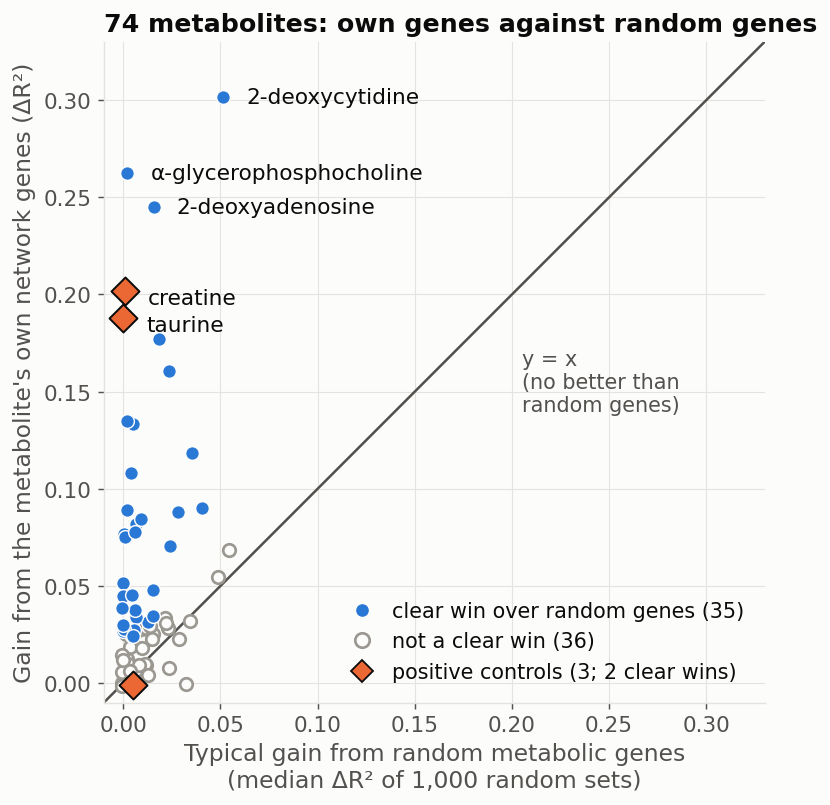
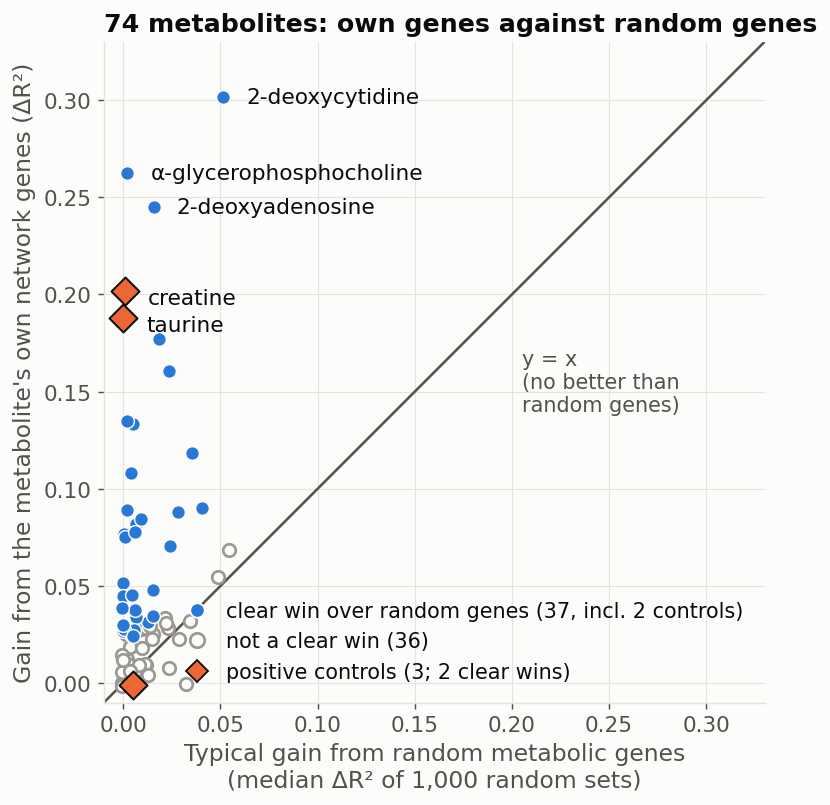
README: add "Why this question" with DOI links; pre-specified wording in templates; scatter legend
No result, analysis or number changed.

Changed region(s): [[0.2108, 0.7453, 0.9036, 0.8696], [0.753, 0.8075, 0.8735, 0.8385]]

diff --git a/scripts/check_docs.py b/scripts/check_docs.py
@@ -1,6 +1,6 @@
 """Documentation and repository checks.
 
-    python scripts/check_docs.py links     # every relative link/image in README.md and docs/ resolves; README has no absolute URLs
+    python scripts/check_docs.py links     # every relative link/image in README.md and docs/ resolves; README has no absolute URLs except doi.org links
     python scripts/check_docs.py paths     # no absolute personal paths, no file > 50 MB, large data/results excluded by .gitignore
     python scripts/check_docs.py wording   # author lines, 'pre-specified' wording, first person singular, image sizes
     python scripts/check_docs.py numbers   # every number quoted in README.md is recomputed from the result files
@@ -41,7 +41,7 @@ def check_links() -> list[str]:
             if t.startswith(("mailto:", "#")):
                 continue
             if t.startswith(("http://", "https://")):
-                if f == README:
+                if f == README and not t.startswith("https://doi.org/"):   # DOI links to the cited papers are the only external URLs allowed
                     errors.append(f"{f.relative_to(ROOT)}: absolute URL not allowed in README: {t}")
                 continue
             n += 1

diff --git a/src/phase3/figures.py b/src/phase3/figures.py
@@ -183,7 +183,7 @@ def fig_readme_scatter() -> None:
         ax.set_title("74 metabolites: own genes against random genes", loc="left", fontweight="bold")
         n_blue, n_open, n_pc = int((spec & ~pc).sum()), int((~spec & ~pc).sum()), int(pc.sum())
         n_pc_win = int((spec & pc).sum())
-        handles = [Line2D([], [], marker="o", color=BLUE, ls="", ms=8, markeredgecolor=SURFACE, label=f"clear win over random genes ({n_blue})"),
+        handles = [Line2D([], [], marker="o", color=BLUE, ls="", ms=8, markeredgecolor=SURFACE, label=f"clear win over random genes ({n_blue + n_pc_win}, incl. {n_pc_win} controls)"),
                    Line2D([], [], marker="o", mfc=SURFACE, mec=MUTED, mew=1.5, ls="", ms=8, label=f"not a clear win ({n_open})"),
                    Line2D([], [], marker="D", color=ORANGE, ls="", ms=9, markeredgecolor=INK,
                           label=f"positive controls ({n_pc}; {n_pc_win} clear wins)")]

diff --git a/README.md b/README.md
@@ -12,6 +12,16 @@ For 37 of 74 pre-specified polar metabolites in 735 CCLE solid-tumour cell lines
 
 Every small molecule in a cell is made, used up or moved by a few enzymes and transporters, and each one is encoded by a known gene. If those genes are more active in a cell line, you might expect more (or less) of the molecule there. I tested this for 74 molecules in 735 cancer cell lines, always predicting cell lines the model had not seen, after accounting for tissue type and growth medium. The hypotheses and the list of molecules were fixed before any model was run, and every result is compared with randomly chosen genes.
 
+## Why this question
+
+Three earlier studies used the same CCLE data and reached different conclusions:
+
+- **Li et al. 2022 (FASEB J)** ([doi](https://doi.org/10.1096/fj.202101921RR)): gene expression is a poor predictor; for most metabolites the held-out R² was near zero.
+- **Cavicchioli et al. 2022 (Int J Mol Sci)** ([doi](https://doi.org/10.3390/ijms23073867)): metabolites can be predicted (mean correlation about 0.42), but lineage and culture medium were not controlled for.
+- **Schildcrout et al. 2024 (Recon8D, bioRxiv** ([doi](https://doi.org/10.1101/2024.08.17.608400)); **published as Metab8D, Commun Biol 2026** ([doi](https://doi.org/10.1038/s42003-026-10409-3))**):** 2,000 random genes predicted about as well as 2,000 metabolic genes, suggesting that much of the signal is general cell state rather than metabolism. The numbers are from the preprint.
+
+None of them asked, for each metabolite, whether the few genes of its own reactions beat equally sized random genes once lineage and medium are accounted for. That narrower question is what this project tests. It complements rather than contradicts the Recon8D result, which compared large gene pools, not metabolite-specific neighbourhoods.
+
 ## How it works
 
 ```mermaid

diff --git a/docs/case_studies.md b/docs/case_studies.md
@@ -102,7 +102,7 @@ Three targets were chosen by a rule fixed before any coefficient was computed (d
 
 1. **The literature.** The CCLE paper links kynurenine to IDO1/IDO2/TDO2 expression (`literature_review.md` §2), and Benedetti et al. found IDO1 associated with kynurenine in CCLE while **AFMID, the next enzyme, was not** (§4.2). Here AFMID has essentially no weight (−0.0007) and little variation (mean 4.98, SD 0.72), as that predicts.
 2. **The expression pattern.** IDO1 has a mean log2(TPM+1) of 0.58 and is above 1 in only 18% of lines; TDO2 has 0.91 and 30%; IDO2 0.04 and 1%. They are strongly on in a minority of lines and off in most, so a minority of lines could carry the kynurenine variation while the rest sit at baseline. That is a pattern a compact, constitutive enzyme set cannot mirror.
-3. **The pre-registered note** (D34): kynurenine is the motivation for stretch goal 2 (second-neighbour sets).
+3. **The pre-specified note** (D34): kynurenine is the motivation for stretch goal 2 (second-neighbour sets).
 
 **An important consequence for stretch goal 2.** Under the pre-specified expressed-gene filter (mean log2(TPM+1) ≥ 1 over the 735 lines), **IDO1 (0.58) and TDO2 (0.91) would be removed even from a second-neighbour set.** The filter was designed to be outcome-blind and to remove noise, but it also removes strongly inducible genes that are on in a minority of lines, which is the very pattern described above. Testing the hypothesis would therefore need a pre-specified change to the filter (for example, a fraction-of-lines criterion), logged before it is used.
 

diff --git a/docs/case_studies.template.md b/docs/case_studies.template.md
@@ -75,7 +75,7 @@ Three targets were chosen by a rule fixed before any coefficient was computed (d
 
 1. **The literature.** The CCLE paper links kynurenine to IDO1/IDO2/TDO2 expression (`literature_review.md` §2), and Benedetti et al. found IDO1 associated with kynurenine in CCLE while **AFMID, the next enzyme, was not** (§4.2). Here AFMID has essentially no weight (−0.0007) and little variation (mean 4.98, SD 0.72), as that predicts.
 2. **The expression pattern.** IDO1 has a mean log2(TPM+1) of 0.58 and is above 1 in only 18% of lines; TDO2 has 0.91 and 30%; IDO2 0.04 and 1%. They are strongly on in a minority of lines and off in most, so a minority of lines could carry the kynurenine variation while the rest sit at baseline. That is a pattern a compact, constitutive enzyme set cannot mirror.
-3. **The pre-registered note** (D34): kynurenine is the motivation for stretch goal 2 (second-neighbour sets).
+3. **The pre-specified note** (D34): kynurenine is the motivation for stretch goal 2 (second-neighbour sets).
 
 **An important consequence for stretch goal 2.** Under the pre-specified expressed-gene filter (mean log2(TPM+1) ≥ 1 over the 735 lines), **IDO1 (0.58) and TDO2 (0.91) would be removed even from a second-neighbour set.** The filter was designed to be outcome-blind and to remove noise, but it also removes strongly inducible genes that are on in a minority of lines, which is the very pattern described above. Testing the hypothesis would therefore need a pre-specified change to the filter (for example, a fraction-of-lines criterion), logged before it is used.
 

diff --git a/docs/phase3_report.md b/docs/phase3_report.md
@@ -175,7 +175,7 @@ Network-specific calls against N-met and N-all agree: 37 targets in both, 1 only
 | taurine | 0.188 | 0.001 | 0.0035 | 0.233 | 0.026 | **yes** |
 
 - **Creatine** (GAMT, SLC6A8) and **taurine** (SLC6A6) pass. Both are retained when the lineage/medium stage is removed (unadjusted columns), so the baseline is not what creates the signal.
-- **Kynurenine** (AFMID, KYNU) **fails**: ΔR² = −0.001, p = 0.87, and its baseline R² is also ≈ 0. The literature drivers IDO1 and TDO2 are at network distance 2 and are **not** in the set (D34). This is the pre-registered motivation for stretch goal 2 (second-neighbour sets), not a result about second-neighbour sets.
+- **Kynurenine** (AFMID, KYNU) **fails**: ΔR² = −0.001, p = 0.87, and its baseline R² is also ≈ 0. The literature drivers IDO1 and TDO2 are at network distance 2 and are **not** in the set (D34). This is the pre-specified motivation for stretch goal 2 (second-neighbour sets), not a result about second-neighbour sets.
 
 **Pipeline diagnostic (not a target; outside H1–H4; D34).** Fitted exactly like a target:
 

diff --git a/docs/phase3_report.template.md b/docs/phase3_report.template.md
@@ -63,7 +63,7 @@ Network-specific calls against N-met and N-all agree: 37 targets in both, 1 only
 {{H5}}
 
 - **Creatine** (GAMT, SLC6A8) and **taurine** (SLC6A6) pass. Both are retained when the lineage/medium stage is removed (unadjusted columns), so the baseline is not what creates the signal.
-- **Kynurenine** (AFMID, KYNU) **fails**: ΔR² = −0.001, p = 0.87, and its baseline R² is also ≈ 0. The literature drivers IDO1 and TDO2 are at network distance 2 and are **not** in the set (D34). This is the pre-registered motivation for stretch goal 2 (second-neighbour sets), not a result about second-neighbour sets.
+- **Kynurenine** (AFMID, KYNU) **fails**: ΔR² = −0.001, p = 0.87, and its baseline R² is also ≈ 0. The literature drivers IDO1 and TDO2 are at network distance 2 and are **not** in the set (D34). This is the pre-specified motivation for stretch goal 2 (second-neighbour sets), not a result about second-neighbour sets.
 
 **Pipeline diagnostic (not a target; outside H1–H4; D34).** Fitted exactly like a target:
 
